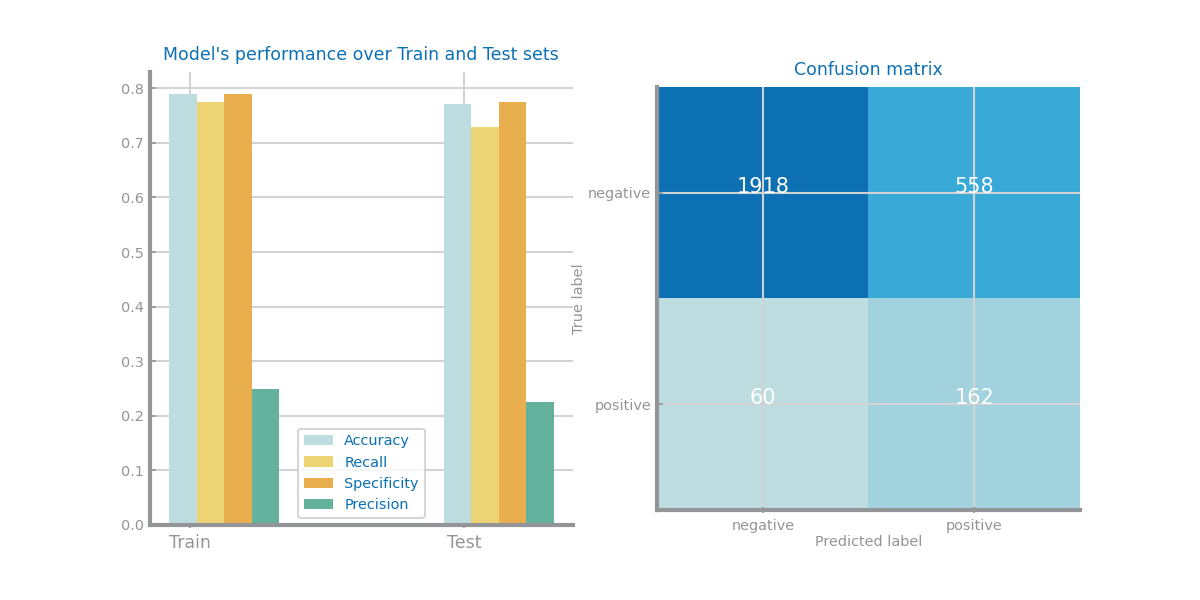
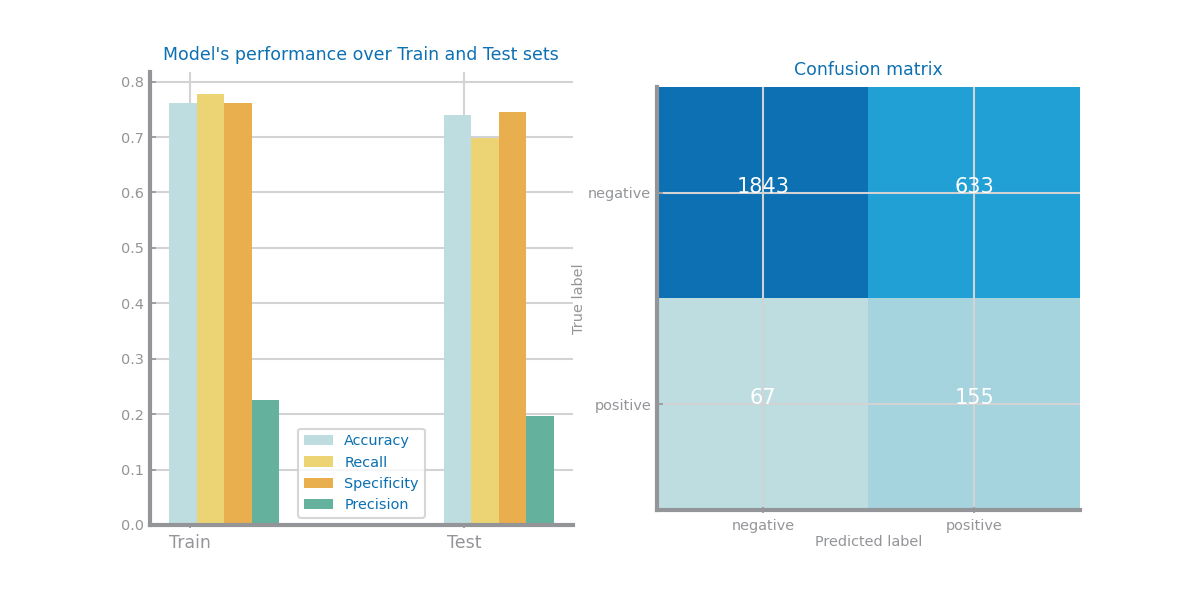
toxic feature_selection filter

diff --git a/Toxic_FeatureSelection_Filters_Sampled.py b/Toxic_FeatureSelection_Filters_Sampled.py
@@ -43,67 +43,67 @@ NaiveBayesTest(X, y, nsamples)
 ##### chi2
 # BETTER PERFORMANCE FOR alpha < 0.0001, DECREASES FOR BIGGER alpha
 
-chi, pval = chi2(X, y)
-# print('\nChi2 test scores:\n', chi)
-# print('Chi2 p-values:\n', pval)
+# chi, pval = chi2(X, y)
+# # print('\nChi2 test scores:\n', chi)
+# # print('Chi2 p-values:\n', pval)
 
-for alpha in (0.00001, 0.00005, 0.0001, 0.0005):
-    print('\nalpha =', alpha)
+# for alpha in (0.00001, 0.00005, 0.0001, 0.0005):
+#     print('\nalpha =', alpha)
     
-    ### - SelectFpr (false positive rate)
-    selector = SelectFpr(chi2, alpha=alpha)
-    X_new = selector.fit_transform(X, y)
-    print('SelectFpr - Number of features:', len(X_new[0]))
-    # print('Selected indices:', selector.get_support(indices=True))
-    # print('New data space:', X_new[0])
+#     ### - SelectFpr (false positive rate)
+#     selector = SelectFpr(chi2, alpha=alpha)
+#     X_new = selector.fit_transform(X, y)
+#     print('SelectFpr - Number of features:', len(X_new[0]))
+#     # print('Selected indices:', selector.get_support(indices=True))
+#     # print('New data space:', X_new[0])
     
-    NaiveBayesTest(X_new, y, nsamples)
+#     NaiveBayesTest(X_new, y, nsamples)
     
-    ### - SelectFdr (false discovery rate)
-    selector = SelectFdr(chi2, alpha=alpha)
-    X_new = selector.fit_transform(X, y)
-    print('SelectFdr - Number of features:', len(X_new[0]))
-    # print('Selected indices:', selector.get_support(indices=True))
-    # print('New data space:', X_new[0])
+#     ### - SelectFdr (false discovery rate)
+#     selector = SelectFdr(chi2, alpha=alpha)
+#     X_new = selector.fit_transform(X, y)
+#     print('SelectFdr - Number of features:', len(X_new[0]))
+#     # print('Selected indices:', selector.get_support(indices=True))
+#     # print('New data space:', X_new[0])
     
-    NaiveBayesTest(X_new, y, nsamples)
+#     NaiveBayesTest(X_new, y, nsamples)
     
-    ### - SelectFwe (family wise error) 
-    selector = SelectFwe(chi2, alpha=alpha)
-    X_new = selector.fit_transform(X, y)
-    print('SelectFwe - Number of features:', len(X_new[0]))
-    # print('Selected indices:', selector.get_support(indices=True))
-    # print('New data space:', X_new[0])
+#     ### - SelectFwe (family wise error) 
+#     selector = SelectFwe(chi2, alpha=alpha)
+#     X_new = selector.fit_transform(X, y)
+#     print('SelectFwe - Number of features:', len(X_new[0]))
+#     # print('Selected indices:', selector.get_support(indices=True))
+#     # print('New data space:', X_new[0])
     
-    NaiveBayesTest(X_new, y, nsamples)
+#     NaiveBayesTest(X_new, y, nsamples)
 
 
 ##### mutual_info_classif - SelectKBest (highest scoring number)
 # BETTER PERFORMANCE FOR k<100, DECREASES FOR HIGHER k
 
-for k in (10, 20, 50, 100, 200, 300):
-    selector = SelectKBest(mutual_info_classif, k)
-    X_new = selector.fit_transform(X, y)
-    # print('\nSelectKBest scores:\n', selector.scores_)
-    # print('\nSelectKBest (k = {}) - Selected indices: {}'.format(k, selector.get_support(indices=True)))
-    # print('New data space:', X_new[0])
+# for k in (10, 20, 50, 100, 200, 300):
+#     selector = SelectKBest(mutual_info_classif, k)
+#     X_new = selector.fit_transform(X, y)
+#     # print('\nSelectKBest scores:\n', selector.scores_)
+#     # print('\nSelectKBest (k = {}) - Selected indices: {}'.format(k, selector.get_support(indices=True)))
+#     # print('New data space:', X_new[0])
     
-    print('\nSelectKBest (k = {})'.format(k))
-    NaiveBayesTest(X_new, y, nsamples)
+#     print('\nSelectKBest (k = {})'.format(k))
+#     NaiveBayesTest(X_new, y, nsamples)
 
 
 ##### ANOVA (f_classif) - SelectPercentile (highest scoring percentage)
-# BETTER PERFORMANCE FOR percentile < 20, DECREASES AS percentile INCREASES
+# BETTER PERFORMANCE FOR percentile < 5, DECREASES AS percentile INCREASES
 
-for percentile in (3, 5, 7, 10, 15, 20):
-    selector = SelectPercentile(f_classif, percentile=percentile)
-    X_new = selector.fit_transform(X, y)
-    # print('\nSelectPercentile p-values:\n', selector.pvalues_)
-    print('\nSelectPercentile ({}%) - Number of features: {}'.format(percentile, len(X_new[0])))
-    # print('Selected indices:', selector.get_support(indices=True))
-    # print('New data space:', X_new[0])
+# for percentile in (3, 5, 7, 10, 15, 20):
+#     selector = SelectPercentile(f_classif, percentile=percentile)
+#     X_new = selector.fit_transform(X, y)
+#     # print('\nSelectPercentile p-values:\n', selector.pvalues_)
+#     print('\nSelectPercentile ({}%) - Number of features: {}'.format(percentile, len(X_new[0])))
+#     # print('Selected indices:', selector.get_support(indices=True))
+#     # print('New data space:', X_new[0])
     
-    NaiveBayesTest(X_new, y, nsamples)
+#     NaiveBayesTest(X_new, y, nsamples)
 
 
 ##### Filters - Unsupervised #####
@@ -117,7 +117,7 @@ selector = VarianceThreshold()
 selector.fit(X)
 # print('\nFeature variance:\n', selector.variances_)
 
-for threshold in (0.01, 0.05, 0.1):
+for threshold in (0.25, 0.2, 0.15):
     selector = VarianceThreshold(threshold)
     X_new = selector.fit_transform(X)
     print('\nVariance (threshold={}) - Number of features: {}'.format(threshold, len(X_new[0])))

diff --git a/Toxic_FeatureSelection_Filters.py b/Toxic_FeatureSelection_Filters.py
@@ -90,7 +90,7 @@ NaiveBayesTest(X_new, y, 'MI_kBest='+str(k))
 
 
 ##### ANOVA (f_classif) - SelectPercentile (highest scoring percentage)
-percentile = 10
+percentile = 5
 selector = SelectPercentile(f_classif, percentile=percentile)
 X_new = selector.fit_transform(X, y)
 # print('\nSelectPercentile p-values:\n', selector.pvalues_)
